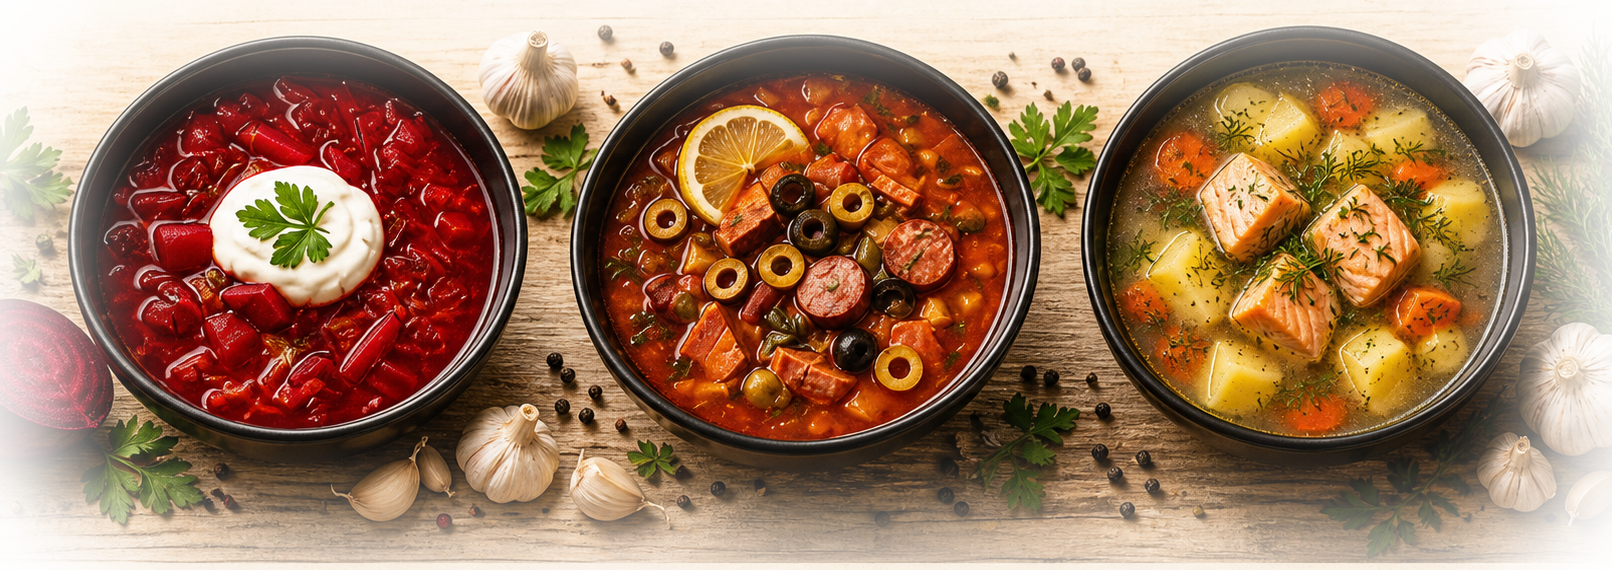
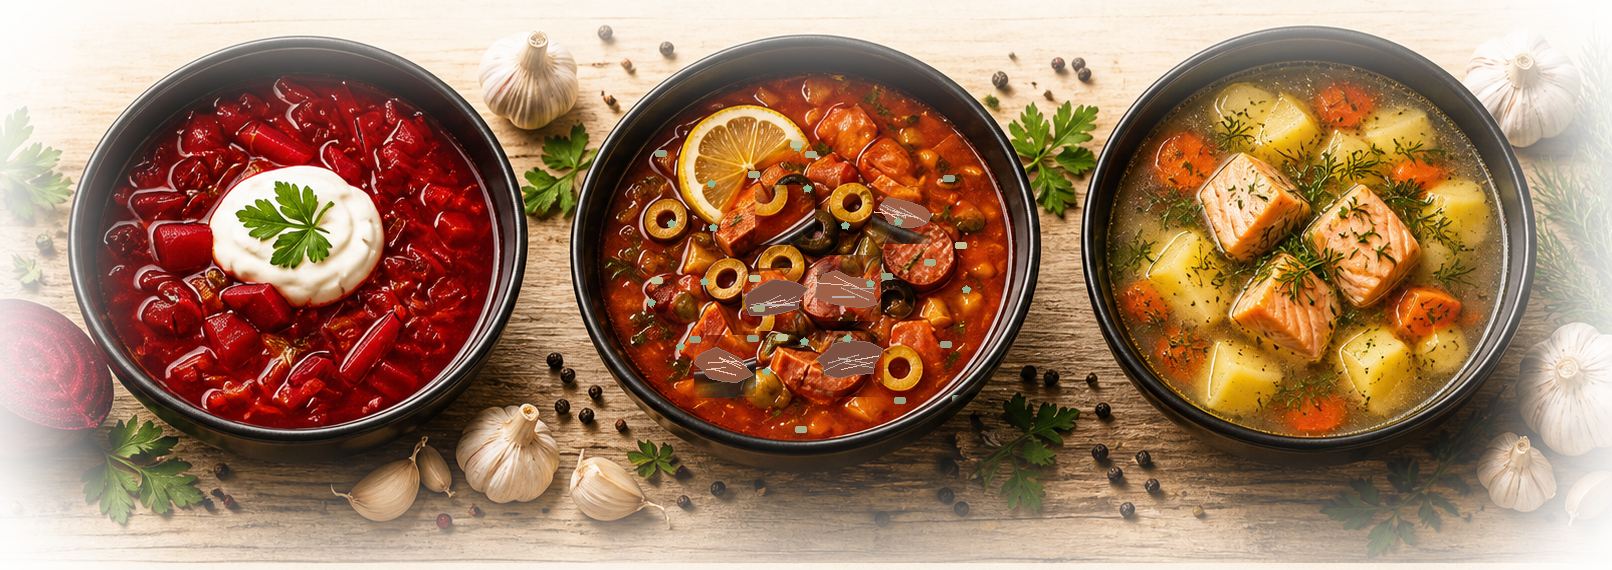
фикс солянки

Changed region(s): [[0.4032, 0.2982, 0.5893, 0.7158], [0.4653, 0.2386, 0.4963, 0.2684]]

diff --git a/landing/templates/landing/index.html b/landing/templates/landing/index.html
@@ -107,7 +107,7 @@
                     </button>
                     <button class="soup-card reveal" type="button" data-soup-open data-soup-id="solyanka" data-soup-url="{% url 'soup-detail' 'solyanka' %}" aria-label="Открыть описание супа Солянка">
                         <div class="soup-label"><h3>Солянка</h3><p>На копченой<br>утке</p></div>
-                        <img class="asset" src="{% static 'landing/img/soup-solyanka.png' %}" alt="Солянка с оливками и лимоном">
+                        <img class="asset" src="{% static 'landing/img/soup-solyanka.png' %}?v={{ cache_bust }}" alt="Солянка с оливками и лимоном">
                         <span class="soup-composition-cta">Состав</span>
                     </button>
                     <button class="soup-card reveal" type="button" data-soup-open data-soup-id="ukha" data-soup-url="{% url 'soup-detail' 'ukha' %}" aria-label="Открыть описание супа Уха">
@@ -169,7 +169,7 @@
                             <strong>Попробуй несколько вкусов сразу!</strong>
                             <p>Идеально для компании, семьи<br>или чтобы найти свой любимый вкус.</p>
                         </header>
-                        <img class="feature-set-image" src="{% static 'landing/img/feature-set-transparent.png' %}" alt="Сет из борща, солянки и ухи">
+                        <img class="feature-set-image" src="{% static 'landing/img/feature-set-transparent.png' %}?v={{ cache_bust }}" alt="Сет из борща, солянки и ухи">
                         <div class="feature-gift feature-gift-light">
                             <span class="feature-gift-icon" aria-hidden="true"></span>
                             <p>При заказе сета — <strong>2 дегустационных супа<br>по 0,35 л в подарок!</strong></p>
@@ -330,7 +330,7 @@
                         <span class="benefit-icon">
                             <img src="{% static 'landing/img/benefit-25h.png' %}?v={{ cache_bust }}" alt="">
                         </span>
-                        <b>варим<br>суп</b>
+                        <b>готовим<br>суп</b>
                     </article>
                     <article>
                         <span class="benefit-icon">
@@ -432,7 +432,7 @@
                     <ol class="umami-process-list">
                         <li>
                             <img class="umami-process-icon" src="{% static 'landing/img/umami-process-pot.png' %}" alt="">
-                            <p>Варим до 25 часов<br>на живом огне</p>
+                            <p>Готовим до 25 часов<br>на живом огне</p>
                         </li>
                         <li>
                             <img class="umami-process-icon" src="{% static 'landing/img/umami-process-farm.png' %}" alt="">

diff --git a/landing/static/landing/js/main.js b/landing/static/landing/js/main.js
@@ -57,7 +57,7 @@ const soupDetails = {
         title: "Солянка",
         tagline: "Идеальный завтрак после веселого ужина",
         description: "Густая, яркая и насыщенная. Суп, который собирает весь вкус в одной тарелке.",
-        image: "/static/landing/img/soup-solyanka.png",
+        image: versionAsset("/static/landing/img/soup-solyanka.png"),
         alt: "Солянка с оливками и лимоном",
         accent: "#c33123",
         note: "Готовится с любовью и томлением 25 часов на живом огне",